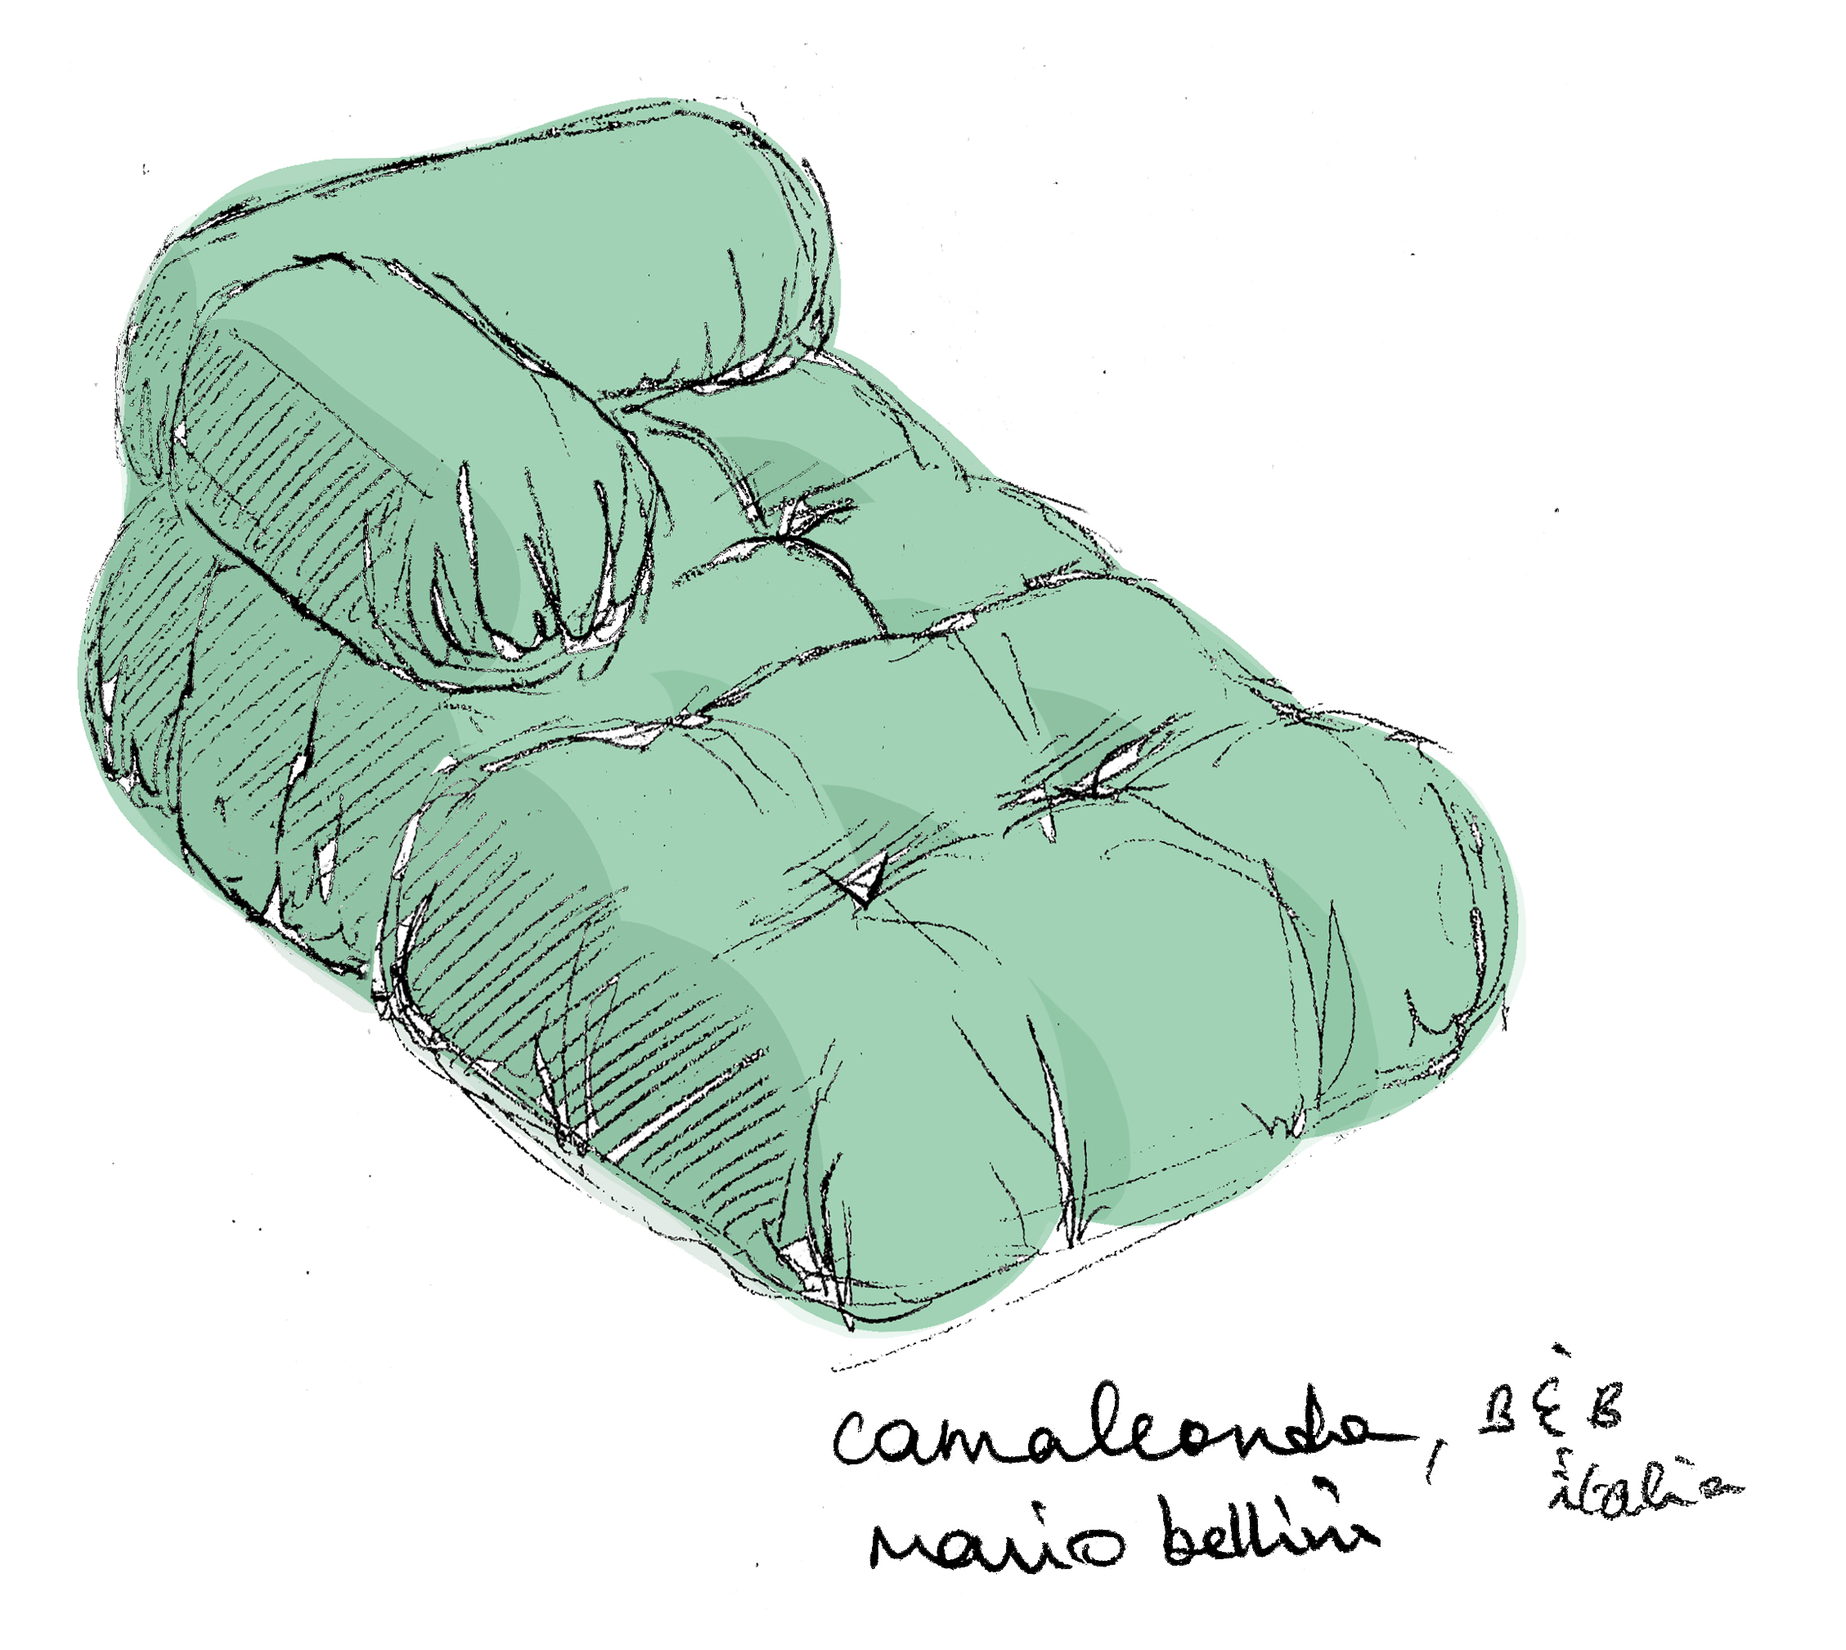
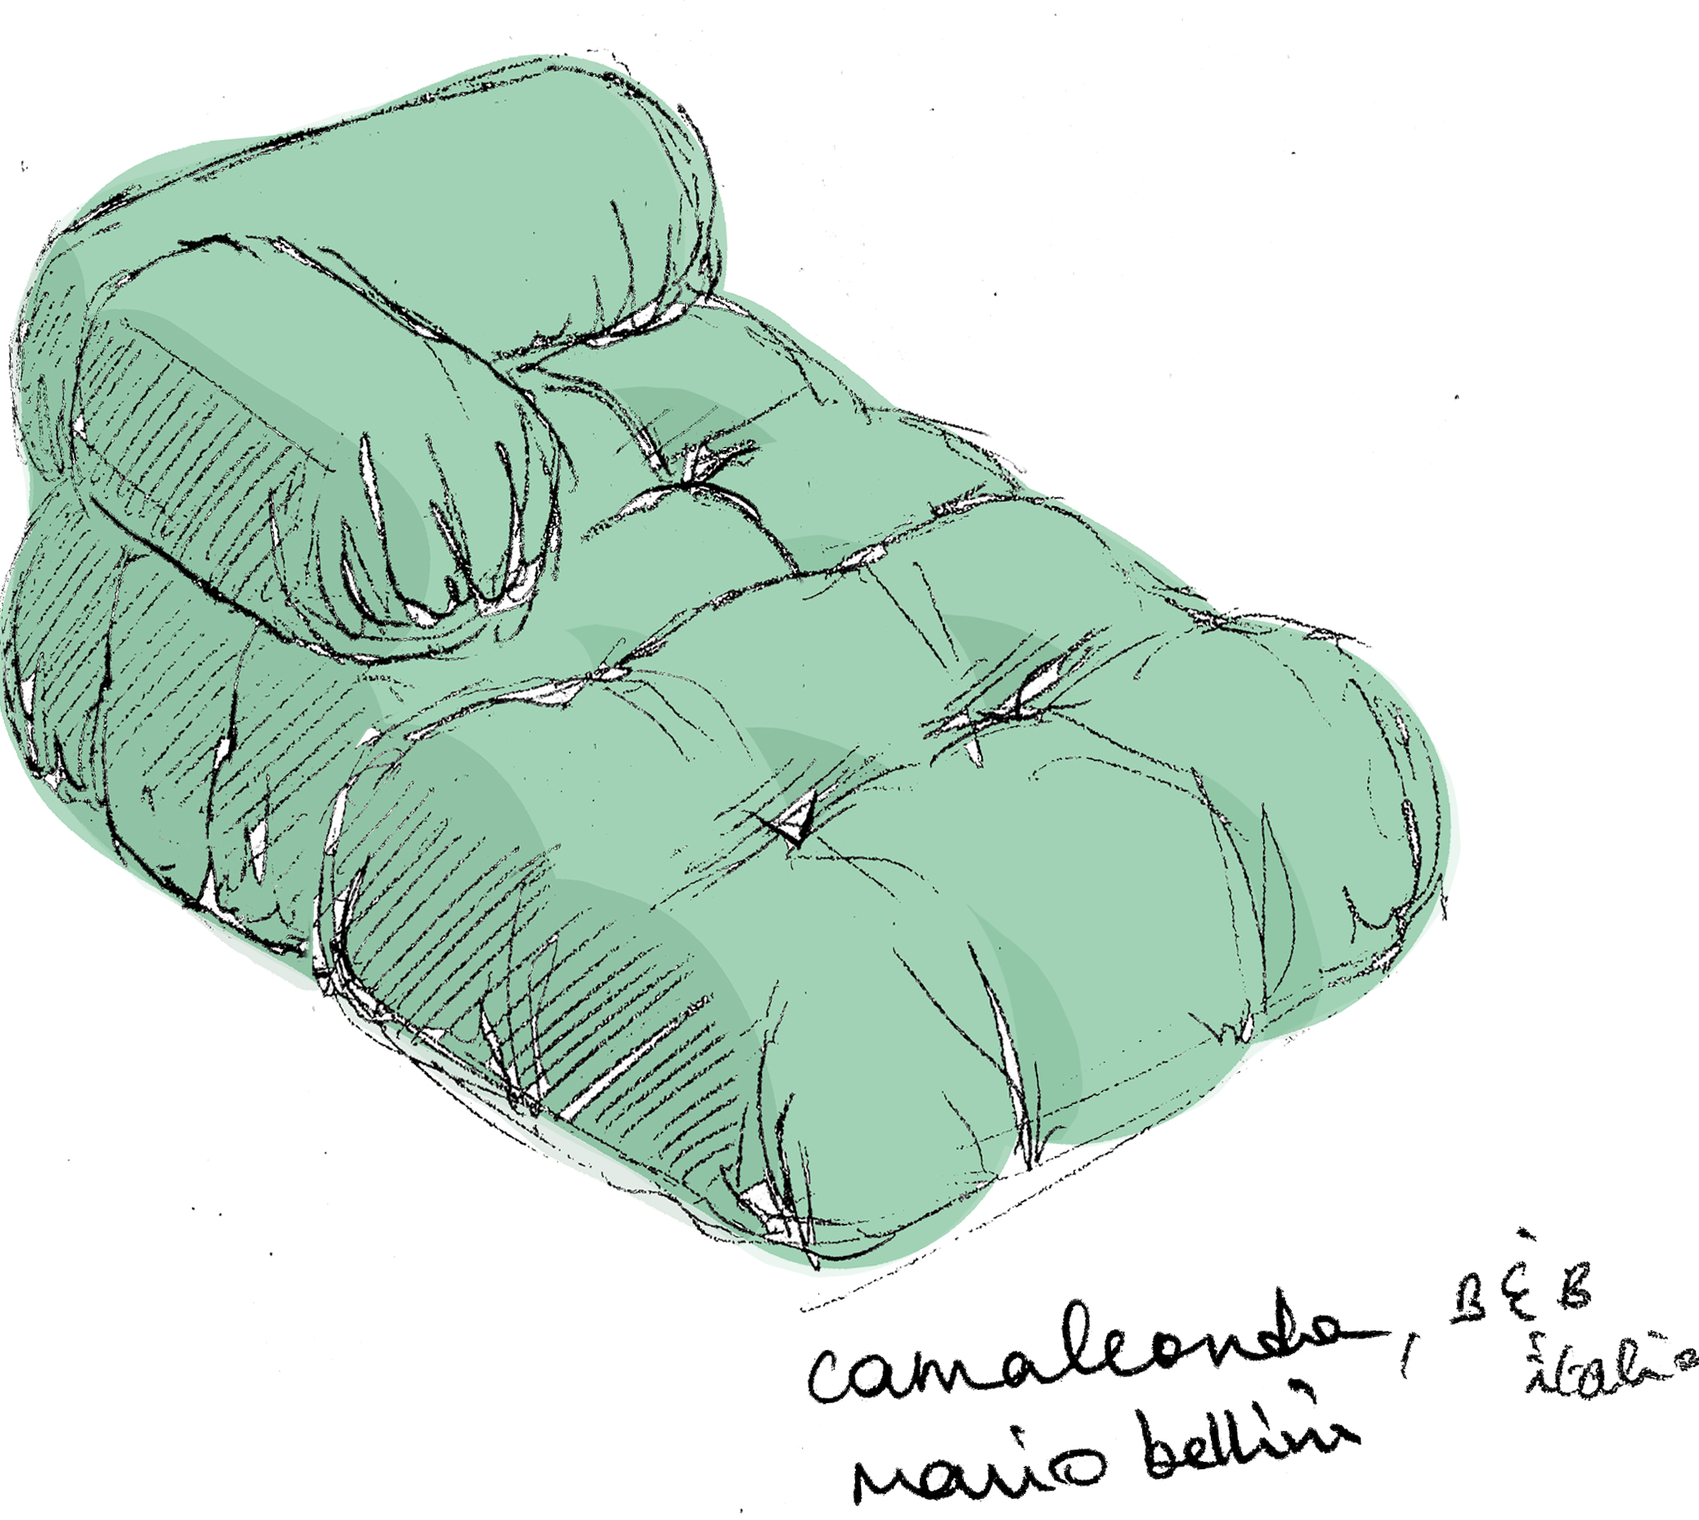
added new dropdown and illustration page

Changed region(s): [[0.0, 0.0312, 1.0, 0.9984], [0.4928, 0.5616, 0.5236, 0.5928]]

diff --git a/illustration.html b/illustration.html
@@ -245,7 +245,6 @@
 
 
 
-  
   <div class="topnav" id="myTopnav">
     <div class="dropdown">
       <button class="dropbtn">FILM
@@ -290,6 +289,7 @@
   
 
 
+
   <script>
   function myFunction() {
     var x = document.getElementById("myTopnav");
@@ -309,31 +309,24 @@
     </a>
   </div>
 
-
   <div class="image">
-    <img src="./Film/1.5-2.jpg" alt="Montreal Spring", 
-    style="position: relative; left: 20%; width: 42%; padding-top: 75.5px; padding-bottom: 94px;">
+    <img src="./Sketches/bambole.jpg" alt="Bambole", 
+    style="position: relative; width: 54%; padding-left: 14%; padding-top: 94px;">
   </div>
 
   <div class="image">
-    <img src="./Film/1.7-2.jpg" alt="2606", 
-    style="position: relative; padding-left: 10%; padding-top: 10%; width: 37%;">
-    
-    <img src="./Film/1.6-2.jpg" alt="On my Way Home", 
-    style="position: static; width: 35%; padding-left: 100px; padding-bottom:35%;">
+    <img src="./Sketches/togo.jpg" alt="Togo", 
+    style="position: relative; width: 56%; padding-left: 36%; padding-bottom: 94px;">
   </div>
 
   <div class="image">
-    <img src="./Film/1.4.jpg" alt="Buds in the Cold", 
-    style="position: relative; width: 67%; padding-left: 24%; padding-top: 94px; padding-bottom: 94px;">
+    <img src="./Sketches/modular-chromatic.jpg" alt="Modular Chromatic", 
+    style="position: relative; width: 65%; padding-left: 6%;">
   </div>
 
   <div class="image">
-    <img src="./Film/1.29-2.jpg" alt="Vertical", 
-    style="position: static; width: 33%; padding-left: 10%; padding-bottom:45%; ">
-
-    <img src="./Film/1.28-2.jpg" alt="Montrealhenge", 
-    style="position: relative; padding-left: 100px; padding-top: 9%; width: 35%; margin-bottom: 200px;">
+    <img src="./Sketches/camaleonda.jpg" alt="Camaleonda", 
+    style="position: relative; left: 33%; width: 57%; padding-top: 55px; padding-bottom: 200px;">
   </div>
 
 </body>

diff --git a/info.html b/info.html
@@ -245,6 +245,7 @@
 
 
 
+
   <div class="topnav" id="myTopnav">
     <div class="dropdown">
       <button class="dropbtn">FILM
@@ -266,14 +267,27 @@
         <i class="fa fa-caret-down"></i>
       </button>
       <div class="dropdown-content">
-        <a href="#", style="position:absolute; left: 50px; width: 100px;">Feels Like Home</a>
+        <a href="/portfolio/feelslikehome1.html", style="position:relative; left: 50px; width: 100px;">Feels Like Home (1)</a>
+        <a href="/portfolio/feelsforeign1.html", style="position:relative; left: 50px; width: 100px;">Feels Foreign (1)</a>
+        <a href="/portfolio/feelslikehome2.html", style="position:relative; left: 50px; width: 100px;">Feels Like Home (2)</a>
+        <a href="/portfolio/feelsforeign2.html", style="position:relative; left: 50px; width: 100px;">Feels Foreign (2)</a>
+        <a href="/portfolio/feelslikehome3.html", style="position:relative; left: 50px; width: 100px;">Feels Like Home (3)</a>
+        <a href="/portfolio/feelsforeign3.html", style="position:relative; left: 50px; width: 100px;">Feels Foreign (3)</a>
+      </div>
+    </div>
+    <div class="dropdown">
+      <button class="dropbtn">FREETIME
+        <i class="fa fa-caret-down"></i>
+      </button>
+      <div class="dropdown-content">
+        <a href="/portfolio/illustration.html", style="position:relative; left: 117.5px; width: 100px;">Illustration</a>
+        <a href="/portfolio/painting.html", style="position:relative; left: 117.5px; width: 100px;">Painting</a>
       </div>
     </div>
     <a href="/portfolio/info.html">INFO</a>
     <a href="javascript:void(0);" style="font-size:15px;" class="icon" onclick="myFunction()">&#9776;</a>
   </div>
   
-
 
 
   <script>

diff --git a/film-amer.html b/film-amer.html
@@ -245,6 +245,7 @@
 
 
 
+  
   <div class="topnav" id="myTopnav">
     <div class="dropdown">
       <button class="dropbtn">FILM
@@ -266,12 +267,27 @@
         <i class="fa fa-caret-down"></i>
       </button>
       <div class="dropdown-content">
-        <a href="#", style="position:absolute; left: 50px; width: 100px;">Feels Like Home</a>
+        <a href="/portfolio/feelslikehome1.html", style="position:relative; left: 50px; width: 100px;">Feels Like Home (1)</a>
+        <a href="/portfolio/feelsforeign1.html", style="position:relative; left: 50px; width: 100px;">Feels Foreign (1)</a>
+        <a href="/portfolio/feelslikehome2.html", style="position:relative; left: 50px; width: 100px;">Feels Like Home (2)</a>
+        <a href="/portfolio/feelsforeign2.html", style="position:relative; left: 50px; width: 100px;">Feels Foreign (2)</a>
+        <a href="/portfolio/feelslikehome3.html", style="position:relative; left: 50px; width: 100px;">Feels Like Home (3)</a>
+        <a href="/portfolio/feelsforeign3.html", style="position:relative; left: 50px; width: 100px;">Feels Foreign (3)</a>
+      </div>
+    </div>
+    <div class="dropdown">
+      <button class="dropbtn">FREETIME
+        <i class="fa fa-caret-down"></i>
+      </button>
+      <div class="dropdown-content">
+        <a href="/portfolio/illustration.html", style="position:relative; left: 117.5px; width: 100px;">Illustration</a>
+        <a href="/portfolio/painting.html", style="position:relative; left: 117.5px; width: 100px;">Painting</a>
       </div>
     </div>
     <a href="/portfolio/info.html">INFO</a>
     <a href="javascript:void(0);" style="font-size:15px;" class="icon" onclick="myFunction()">&#9776;</a>
   </div>
+  
   
 
 

diff --git a/film-carbonise.html b/film-carbonise.html
@@ -245,6 +245,7 @@
 
 
 
+  
   <div class="topnav" id="myTopnav">
     <div class="dropdown">
       <button class="dropbtn">FILM
@@ -266,12 +267,27 @@
         <i class="fa fa-caret-down"></i>
       </button>
       <div class="dropdown-content">
-        <a href="#", style="position:absolute; left: 50px; width: 100px;">Feels Like Home</a>
+        <a href="/portfolio/feelslikehome1.html", style="position:relative; left: 50px; width: 100px;">Feels Like Home (1)</a>
+        <a href="/portfolio/feelsforeign1.html", style="position:relative; left: 50px; width: 100px;">Feels Foreign (1)</a>
+        <a href="/portfolio/feelslikehome2.html", style="position:relative; left: 50px; width: 100px;">Feels Like Home (2)</a>
+        <a href="/portfolio/feelsforeign2.html", style="position:relative; left: 50px; width: 100px;">Feels Foreign (2)</a>
+        <a href="/portfolio/feelslikehome3.html", style="position:relative; left: 50px; width: 100px;">Feels Like Home (3)</a>
+        <a href="/portfolio/feelsforeign3.html", style="position:relative; left: 50px; width: 100px;">Feels Foreign (3)</a>
+      </div>
+    </div>
+    <div class="dropdown">
+      <button class="dropbtn">FREETIME
+        <i class="fa fa-caret-down"></i>
+      </button>
+      <div class="dropdown-content">
+        <a href="/portfolio/illustration.html", style="position:relative; left: 117.5px; width: 100px;">Illustration</a>
+        <a href="/portfolio/painting.html", style="position:relative; left: 117.5px; width: 100px;">Painting</a>
       </div>
     </div>
     <a href="/portfolio/info.html">INFO</a>
     <a href="javascript:void(0);" style="font-size:15px;" class="icon" onclick="myFunction()">&#9776;</a>
   </div>
+  
   
 
 

diff --git a/film-sale.html b/film-sale.html
@@ -245,6 +245,7 @@
 
 
 
+  
   <div class="topnav" id="myTopnav">
     <div class="dropdown">
       <button class="dropbtn">FILM
@@ -266,12 +267,27 @@
         <i class="fa fa-caret-down"></i>
       </button>
       <div class="dropdown-content">
-        <a href="#", style="position:absolute; left: 50px; width: 100px;">Feels Like Home</a>
+        <a href="/portfolio/feelslikehome1.html", style="position:relative; left: 50px; width: 100px;">Feels Like Home (1)</a>
+        <a href="/portfolio/feelsforeign1.html", style="position:relative; left: 50px; width: 100px;">Feels Foreign (1)</a>
+        <a href="/portfolio/feelslikehome2.html", style="position:relative; left: 50px; width: 100px;">Feels Like Home (2)</a>
+        <a href="/portfolio/feelsforeign2.html", style="position:relative; left: 50px; width: 100px;">Feels Foreign (2)</a>
+        <a href="/portfolio/feelslikehome3.html", style="position:relative; left: 50px; width: 100px;">Feels Like Home (3)</a>
+        <a href="/portfolio/feelsforeign3.html", style="position:relative; left: 50px; width: 100px;">Feels Foreign (3)</a>
+      </div>
+    </div>
+    <div class="dropdown">
+      <button class="dropbtn">FREETIME
+        <i class="fa fa-caret-down"></i>
+      </button>
+      <div class="dropdown-content">
+        <a href="/portfolio/illustration.html", style="position:relative; left: 117.5px; width: 100px;">Illustration</a>
+        <a href="/portfolio/painting.html", style="position:relative; left: 117.5px; width: 100px;">Painting</a>
       </div>
     </div>
     <a href="/portfolio/info.html">INFO</a>
     <a href="javascript:void(0);" style="font-size:15px;" class="icon" onclick="myFunction()">&#9776;</a>
   </div>
+  
   
 
 

diff --git a/film-doux.html b/film-doux.html
@@ -245,6 +245,7 @@
 
 
 
+ 
   <div class="topnav" id="myTopnav">
     <div class="dropdown">
       <button class="dropbtn">FILM
@@ -266,12 +267,27 @@
         <i class="fa fa-caret-down"></i>
       </button>
       <div class="dropdown-content">
-        <a href="#", style="position:absolute; left: 50px; width: 100px;">Feels Like Home</a>
+        <a href="/portfolio/feelslikehome1.html", style="position:relative; left: 50px; width: 100px;">Feels Like Home (1)</a>
+        <a href="/portfolio/feelsforeign1.html", style="position:relative; left: 50px; width: 100px;">Feels Foreign (1)</a>
+        <a href="/portfolio/feelslikehome2.html", style="position:relative; left: 50px; width: 100px;">Feels Like Home (2)</a>
+        <a href="/portfolio/feelsforeign2.html", style="position:relative; left: 50px; width: 100px;">Feels Foreign (2)</a>
+        <a href="/portfolio/feelslikehome3.html", style="position:relative; left: 50px; width: 100px;">Feels Like Home (3)</a>
+        <a href="/portfolio/feelsforeign3.html", style="position:relative; left: 50px; width: 100px;">Feels Foreign (3)</a>
+      </div>
+    </div>
+    <div class="dropdown">
+      <button class="dropbtn">FREETIME
+        <i class="fa fa-caret-down"></i>
+      </button>
+      <div class="dropdown-content">
+        <a href="/portfolio/illustration.html", style="position:relative; left: 117.5px; width: 100px;">Illustration</a>
+        <a href="/portfolio/painting.html", style="position:relative; left: 117.5px; width: 100px;">Painting</a>
       </div>
     </div>
     <a href="/portfolio/info.html">INFO</a>
     <a href="javascript:void(0);" style="font-size:15px;" class="icon" onclick="myFunction()">&#9776;</a>
   </div>
+  
   
 
 

diff --git a/index.html b/index.html
@@ -266,14 +266,27 @@
         <i class="fa fa-caret-down"></i>
       </button>
       <div class="dropdown-content">
-        <a href="#", style="position:absolute; left: 50px; width: 100px;">Feels Like Home</a>
+        <a href="/portfolio/feelslikehome1.html", style="position:relative; left: 50px; width: 100px;">Feels Like Home (1)</a>
+        <a href="/portfolio/feelsforeign1.html", style="position:relative; left: 50px; width: 100px;">Feels Foreign (1)</a>
+        <a href="/portfolio/feelslikehome2.html", style="position:relative; left: 50px; width: 100px;">Feels Like Home (2)</a>
+        <a href="/portfolio/feelsforeign2.html", style="position:relative; left: 50px; width: 100px;">Feels Foreign (2)</a>
+        <a href="/portfolio/feelslikehome3.html", style="position:relative; left: 50px; width: 100px;">Feels Like Home (3)</a>
+        <a href="/portfolio/feelsforeign3.html", style="position:relative; left: 50px; width: 100px;">Feels Foreign (3)</a>
+      </div>
+    </div>
+    <div class="dropdown">
+      <button class="dropbtn">FREETIME
+        <i class="fa fa-caret-down"></i>
+      </button>
+      <div class="dropdown-content">
+        <a href="/portfolio/illustration.html", style="position:relative; left: 117.5px; width: 100px;">Illustration</a>
+        <a href="/portfolio/painting.html", style="position:relative; left: 117.5px; width: 100px;">Painting</a>
       </div>
     </div>
     <a href="/portfolio/info.html">INFO</a>
     <a href="javascript:void(0);" style="font-size:15px;" class="icon" onclick="myFunction()">&#9776;</a>
   </div>
   
-
 
 
   <script>

diff --git a/film-citronne.html b/film-citronne.html
@@ -245,6 +245,7 @@
 
 
 
+  
   <div class="topnav" id="myTopnav">
     <div class="dropdown">
       <button class="dropbtn">FILM
@@ -266,7 +267,21 @@
         <i class="fa fa-caret-down"></i>
       </button>
       <div class="dropdown-content">
-        <a href="#", style="position:absolute; left: 50px; width: 100px;">Feels Like Home</a>
+        <a href="/portfolio/feelslikehome1.html", style="position:relative; left: 50px; width: 100px;">Feels Like Home (1)</a>
+        <a href="/portfolio/feelsforeign1.html", style="position:relative; left: 50px; width: 100px;">Feels Foreign (1)</a>
+        <a href="/portfolio/feelslikehome2.html", style="position:relative; left: 50px; width: 100px;">Feels Like Home (2)</a>
+        <a href="/portfolio/feelsforeign2.html", style="position:relative; left: 50px; width: 100px;">Feels Foreign (2)</a>
+        <a href="/portfolio/feelslikehome3.html", style="position:relative; left: 50px; width: 100px;">Feels Like Home (3)</a>
+        <a href="/portfolio/feelsforeign3.html", style="position:relative; left: 50px; width: 100px;">Feels Foreign (3)</a>
+      </div>
+    </div>
+    <div class="dropdown">
+      <button class="dropbtn">FREETIME
+        <i class="fa fa-caret-down"></i>
+      </button>
+      <div class="dropdown-content">
+        <a href="/portfolio/illustration.html", style="position:relative; left: 117.5px; width: 100px;">Illustration</a>
+        <a href="/portfolio/painting.html", style="position:relative; left: 117.5px; width: 100px;">Painting</a>
       </div>
     </div>
     <a href="/portfolio/info.html">INFO</a>

diff --git a/film-menthole.html b/film-menthole.html
@@ -245,6 +245,7 @@
 
 
 
+  
   <div class="topnav" id="myTopnav">
     <div class="dropdown">
       <button class="dropbtn">FILM
@@ -266,7 +267,21 @@
         <i class="fa fa-caret-down"></i>
       </button>
       <div class="dropdown-content">
-        <a href="#", style="position:absolute; left: 50px; width: 100px;">Feels Like Home</a>
+        <a href="/portfolio/feelslikehome1.html", style="position:relative; left: 50px; width: 100px;">Feels Like Home (1)</a>
+        <a href="/portfolio/feelsforeign1.html", style="position:relative; left: 50px; width: 100px;">Feels Foreign (1)</a>
+        <a href="/portfolio/feelslikehome2.html", style="position:relative; left: 50px; width: 100px;">Feels Like Home (2)</a>
+        <a href="/portfolio/feelsforeign2.html", style="position:relative; left: 50px; width: 100px;">Feels Foreign (2)</a>
+        <a href="/portfolio/feelslikehome3.html", style="position:relative; left: 50px; width: 100px;">Feels Like Home (3)</a>
+        <a href="/portfolio/feelsforeign3.html", style="position:relative; left: 50px; width: 100px;">Feels Foreign (3)</a>
+      </div>
+    </div>
+    <div class="dropdown">
+      <button class="dropbtn">FREETIME
+        <i class="fa fa-caret-down"></i>
+      </button>
+      <div class="dropdown-content">
+        <a href="/portfolio/illustration.html", style="position:relative; left: 117.5px; width: 100px;">Illustration</a>
+        <a href="/portfolio/painting.html", style="position:relative; left: 117.5px; width: 100px;">Painting</a>
       </div>
     </div>
     <a href="/portfolio/info.html">INFO</a>

diff --git a/film-poivre.html b/film-poivre.html
@@ -245,6 +245,7 @@
 
 
 
+  
   <div class="topnav" id="myTopnav">
     <div class="dropdown">
       <button class="dropbtn">FILM
@@ -266,7 +267,21 @@
         <i class="fa fa-caret-down"></i>
       </button>
       <div class="dropdown-content">
-        <a href="#", style="position:absolute; left: 50px; width: 100px;">Feels Like Home</a>
+        <a href="/portfolio/feelslikehome1.html", style="position:relative; left: 50px; width: 100px;">Feels Like Home (1)</a>
+        <a href="/portfolio/feelsforeign1.html", style="position:relative; left: 50px; width: 100px;">Feels Foreign (1)</a>
+        <a href="/portfolio/feelslikehome2.html", style="position:relative; left: 50px; width: 100px;">Feels Like Home (2)</a>
+        <a href="/portfolio/feelsforeign2.html", style="position:relative; left: 50px; width: 100px;">Feels Foreign (2)</a>
+        <a href="/portfolio/feelslikehome3.html", style="position:relative; left: 50px; width: 100px;">Feels Like Home (3)</a>
+        <a href="/portfolio/feelsforeign3.html", style="position:relative; left: 50px; width: 100px;">Feels Foreign (3)</a>
+      </div>
+    </div>
+    <div class="dropdown">
+      <button class="dropbtn">FREETIME
+        <i class="fa fa-caret-down"></i>
+      </button>
+      <div class="dropdown-content">
+        <a href="/portfolio/illustration.html", style="position:relative; left: 117.5px; width: 100px;">Illustration</a>
+        <a href="/portfolio/painting.html", style="position:relative; left: 117.5px; width: 100px;">Painting</a>
       </div>
     </div>
     <a href="/portfolio/info.html">INFO</a>
